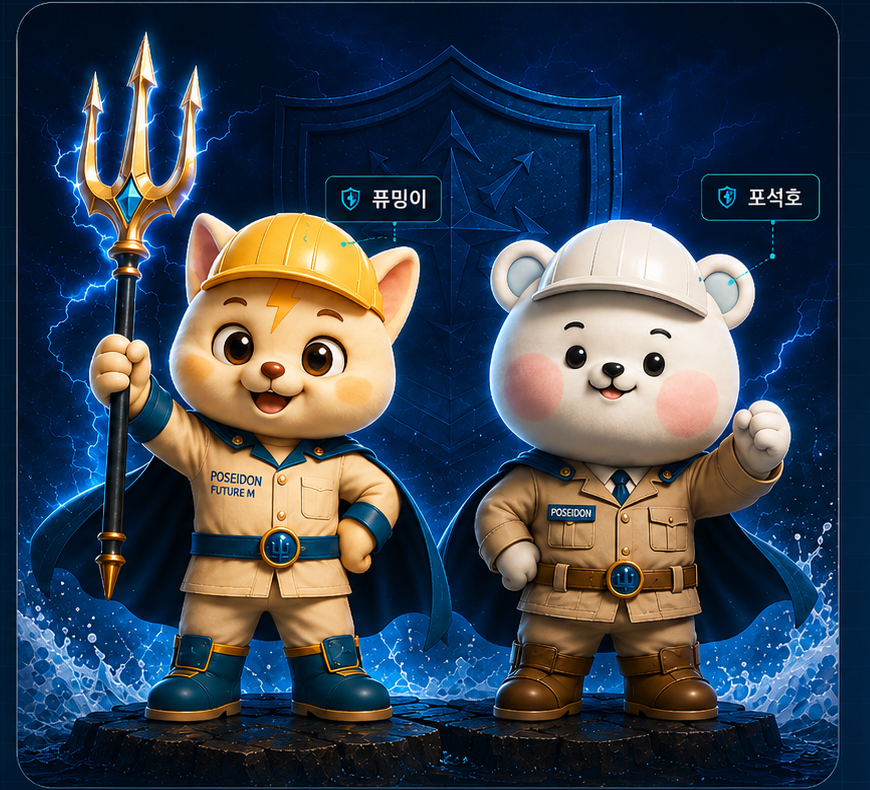
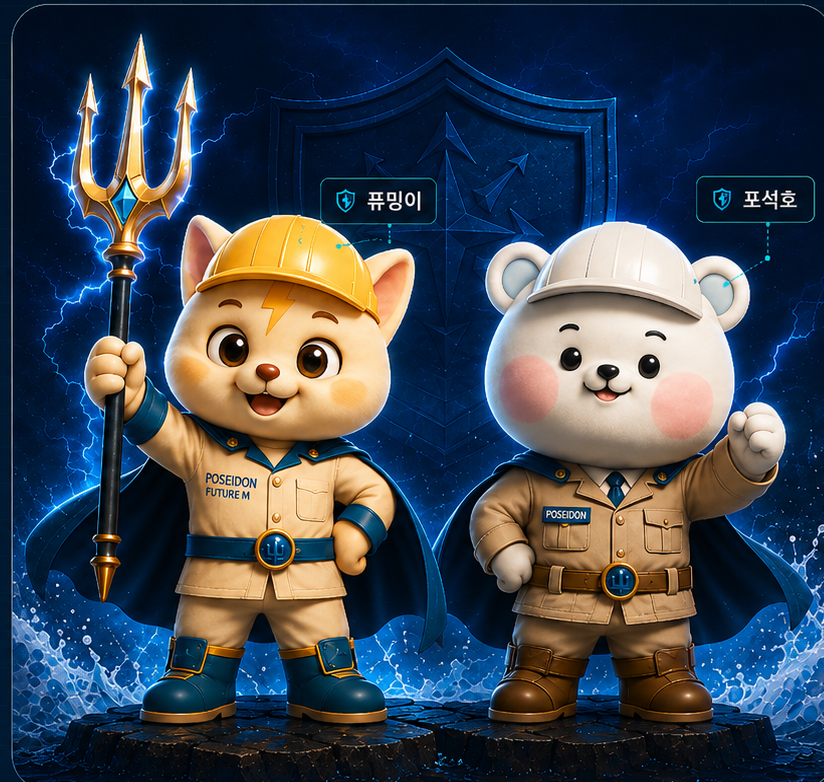
POSEIDON V6.29 dashboard guardian full body

diff --git a/public/styles.css b/public/styles.css
@@ -2129,3 +2129,52 @@ html {
   .safety-ball-calibration-actions > * { flex:1 1 100%; }
   .safety-ball-device-meta { grid-template-columns:1fr; }
 }
+
+/* POSEIDON V6.29 — dashboard guardian image: preserve the full bodies and trident */
+.poseidon-character-card {
+  height: auto;
+  min-height: 0;
+  aspect-ratio: 824 / 782;
+  display: flex;
+  align-items: center;
+  justify-content: center;
+  overflow: hidden;
+  background: #031322;
+}
+.poseidon-character-card > img {
+  display: block;
+  width: 100%;
+  height: 100%;
+  object-fit: contain;
+  object-position: center center;
+  filter: none;
+}
+
+@media (min-width: 1181px) {
+  .hero-panel {
+    grid-template-columns: minmax(0, 1.06fr) minmax(420px, .94fr);
+  }
+  .poseidon-character-card {
+    width: 100%;
+    max-height: 470px;
+    justify-self: stretch;
+  }
+}
+
+@media (max-width: 1180px) {
+  .poseidon-character-card {
+    height: auto;
+    min-height: 0;
+    width: min(100%, 760px);
+    margin-inline: auto;
+  }
+}
+
+@media (max-width: 700px) {
+  .poseidon-character-card {
+    height: auto;
+    min-height: 0;
+    width: 100%;
+    aspect-ratio: 824 / 782;
+  }
+}

diff --git a/public/index.html b/public/index.html
@@ -7,7 +7,7 @@
     <meta name="description" content="POSCO Future M POSEIDON - AI 관제, D-안전소통보드, 안전보건법령, MSDS, 비상대응을 통합한 안전보건관리 플랫폼" />
     <title>POSEIDON 스마트 안전지킴이 | POSCO Future M</title>
     <link rel="icon" href="/favicon.svg" />
-    <link rel="stylesheet" href="/styles.css?v=6.28.0" />
+    <link rel="stylesheet" href="/styles.css?v=6.29.0" />
   </head>
   <body>
     <div class="login-screen" id="loginScreen" hidden>
@@ -650,6 +650,6 @@
     <div class="sidebar-scrim" id="sidebarScrim"></div>
 
     <script src="https://cdn.jsdelivr.net/npm/qrcodejs@1.0.0/qrcode.min.js" defer></script>
-    <script type="module" src="/app.js?v=6.28.0"></script>
+    <script type="module" src="/app.js?v=6.29.0"></script>
   </body>
 </html>

diff --git a/CHANGELOG_V6_29.md b/CHANGELOG_V6_29.md
@@ -1,0 +1,8 @@
+# POSEIDON V6.29
+
+## 메인 대시보드 캐릭터 이미지 보완
+- 사용자가 제공한 최신 메인 대시보드 이미지의 오른쪽 `퓨밍이 · 포석호` 캐릭터 영역으로 메인 이미지를 교체했습니다.
+- 기존 `object-fit: cover` 중심 표시를 `object-fit: contain`으로 변경해 팔, 다리, 신발, 삼지창이 카드 밖으로 잘리지 않도록 했습니다.
+- 캐릭터 카드에 원본 비율(824:782)을 유지하도록 `aspect-ratio`를 적용했습니다.
+- 데스크톱에서는 오른쪽 이미지 영역을 약간 넓히고, 태블릿/모바일에서는 전체 이미지가 비율을 유지하며 자동 축소됩니다.
+- 기존 POSEIDON 기능, D1/API, 스마트 세이프티 볼 기능은 변경하지 않았습니다.

diff --git a/README.md b/README.md
@@ -248,3 +248,6 @@ Cloudflare Secret:
 - 관리자 장치 ID/장치명/사업장/일련번호/검교정일/다음 검교정일/기관/비고 관리
 - 검교정 유효/30일 이내 예정/만료/미등록 상태 표시
 - 기존 POSEIDON 로그인 세션 기반 수신 API 유지, 별도 Safety Ball 키 없음
+
+## V6.29 dashboard guardian image
+메인 대시보드의 퓨밍이·포석호 이미지를 최신 승인 이미지로 교체하고 `object-fit: contain`과 고정 비율을 적용해 캐릭터의 팔다리와 삼지창이 잘리지 않도록 보완했습니다.
